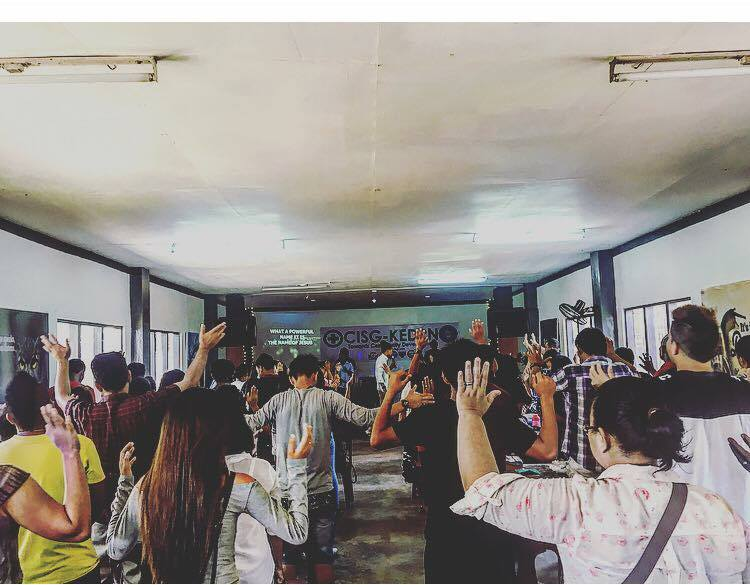
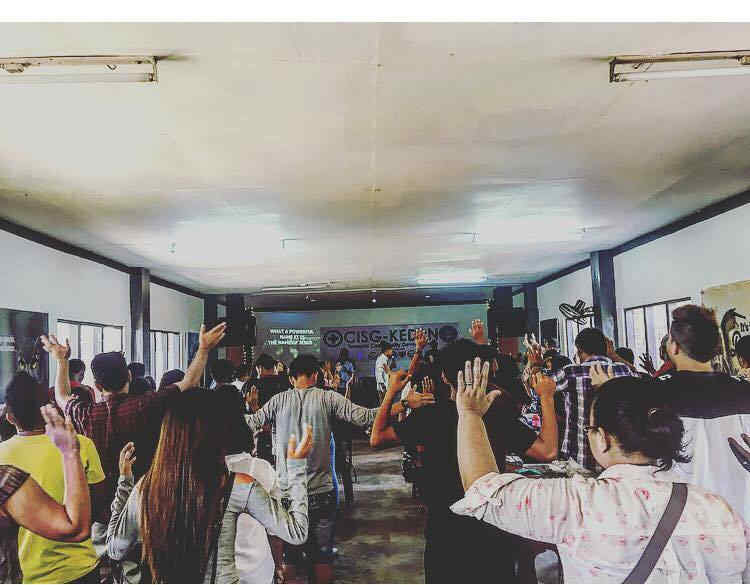
Optimized Images
Changed png to jpg for bg image.
Compressed slider images.

diff --git a/css/style.css b/css/style.css
@@ -27,7 +27,7 @@ body {
   -webkit-transition: 0.5s;
   -o-transition: 0.5s;
   transition: 0.5s;
-  background: url("../images/palm.png") no-repeat 0 0 fixed;
+  background: url("../images/palm.jpg") no-repeat 0 0 fixed;
   background-size: cover;
 }
 .offcanvas #page {
